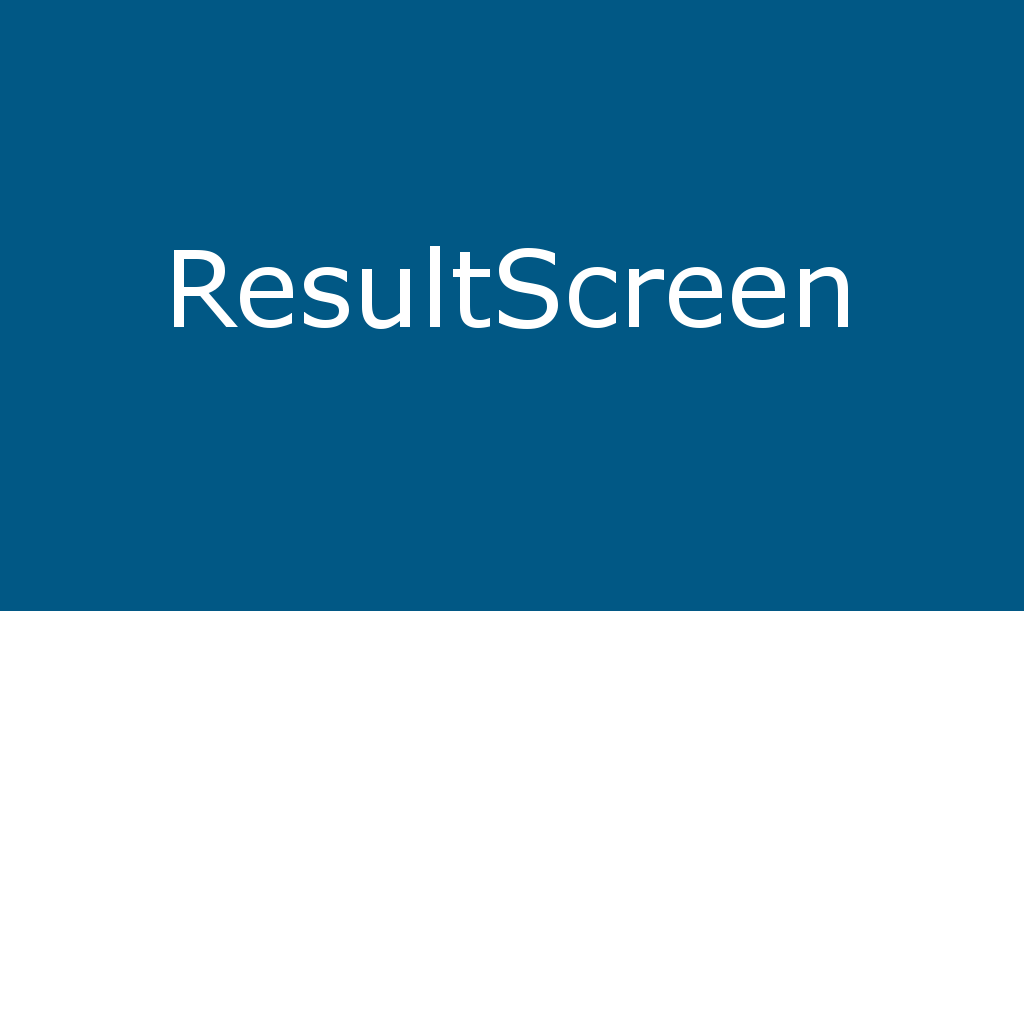
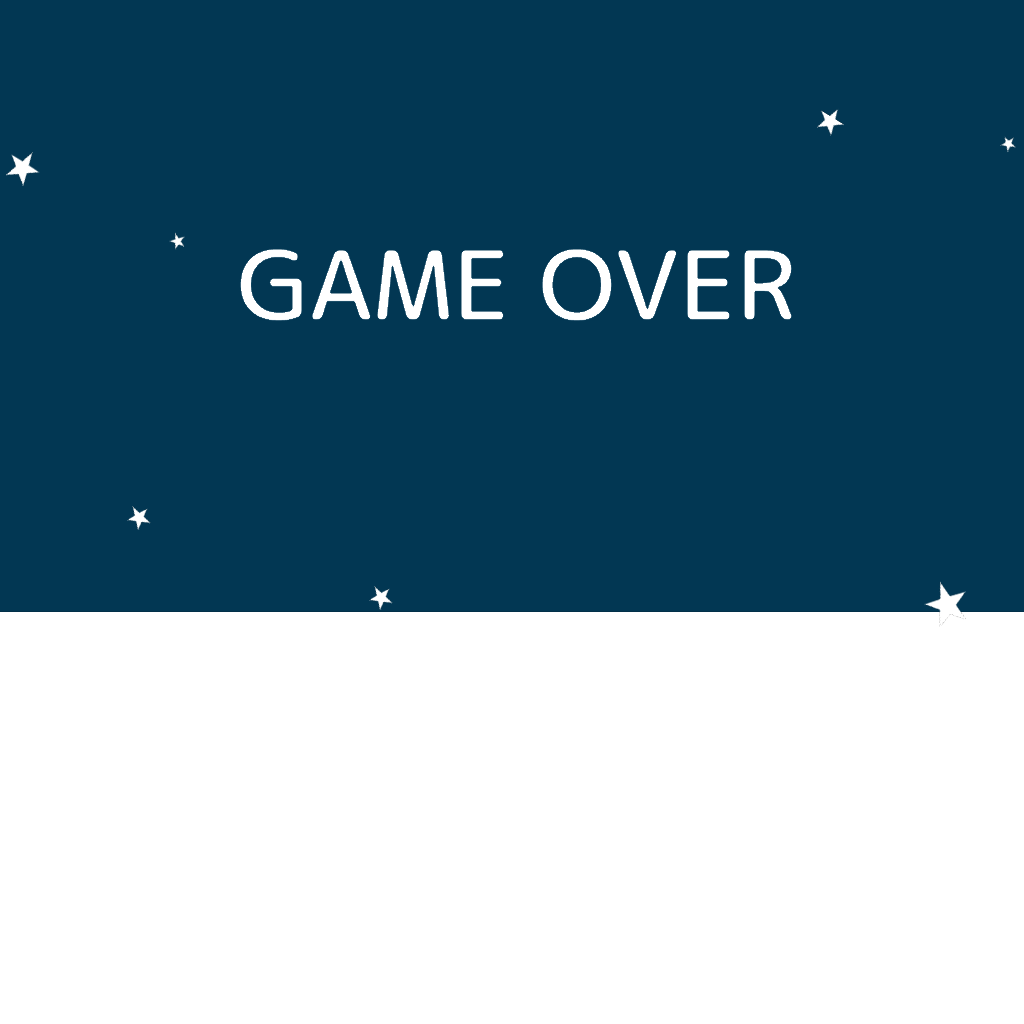
調整a

diff --git a/core/src/jp/toteto/a1293/game/rhythmgame/GameScreen.java b/core/src/jp/toteto/a1293/game/rhythmgame/GameScreen.java
@@ -106,7 +106,7 @@ public class GameScreen extends ScreenAdapter {
     Button3 mButton3;
     Button4 mButton4;
     Player mPlayer;
-   // Message mMessage;
+    Message mMessage;
 
 
     AttackLine mAttackLine;
@@ -525,8 +525,8 @@ public class GameScreen extends ScreenAdapter {
         mGaugeBarBack.draw(mGame.batch);
         mLGaugeBar.draw(mGame.batch);
         mFGaugeBar.draw(mGame.batch);
-
-
+        mMessage.draw(mGame.batch);
+        mGame.batch.end();
 
         // スコア表示
         mGuiCamera.update();
@@ -626,6 +626,10 @@ public class GameScreen extends ScreenAdapter {
 
         //Texture ufoTexture = new Texture("ufo.png");
 
+        Texture exitbutton = new Texture("ExitButton.png");
+        TextureRegion messageTexture = new TextureRegion(exitbutton,0, 430, 512, 32);
+        //TextureRegion message2Texture = new TextureRegion(exitbutton,320, 392, 143, 24);
+        //TextureRegion exitbuttonTexture = new TextureRegion(exitbutton,0, 0, 512, 310);
 
         Texture bar = new Texture("bar.png");
         TextureRegion barTexture = new TextureRegion(bar,0,845,1024,171);
@@ -852,6 +856,9 @@ public class GameScreen extends ScreenAdapter {
             mGround.add(ground);
             Gs += 8;
         }
+
+        mMessage = new Message(messageTexture);
+        mMessage.setPosition(16, 4.0f);//変える
     }
 
     // それぞれのオブジェクトの状態をアップデートする
@@ -866,7 +873,7 @@ public class GameScreen extends ScreenAdapter {
                 updatePlaying(delta);
                 break;
             case GAME_STATE_GAMEOVER:
-                updateGameOver();
+                updateGameOver(delta);
                 break;
         }
     }
@@ -1175,7 +1182,7 @@ public class GameScreen extends ScreenAdapter {
                         note2.get();//消す
                     }
                 }
-            //タイミング判定
+                //タイミング判定
             }
             if (note2.mState == 0 && mDeadLine.getBoundingRectangle().overlaps(note2.getBoundingRectangle())) {
                 //押されなかった場合（ダメージを追加予定
@@ -1303,32 +1310,23 @@ public class GameScreen extends ScreenAdapter {
     }
 
     //ゲームオーバー時ResultScreenに遷移
-    private void updateGameOver() {
+    private void updateGameOver(float delta) {
         playingmusic.dispose();//メモリ解放
         hitsound.dispose();//メモリ解放
         fall.dispose();//メモリ解放
         getstarsound.dispose();//メモリ解放
         jingle.dispose();//メモリ解放
-/*
-        mGame.batch.begin();
-       // mMessage.draw(mGame.batch);
-        mGame.batch.end();
-        Texture exitbutton = new Texture("Exitbutton.png");
-        TextureRegion messageTexture = new TextureRegion(exitbutton,0, 420, 512, 92);
-        TextureRegion message2Texture = new TextureRegion(exitbutton,320, 392, 143, 24);
-        TextureRegion exitbuttonTexture = new TextureRegion(exitbutton,0, 0, 512, 310);
-        //mMessage = new Message(messageTexture);
-        //mMessage.setPosition(16, 4.0f);
 
-        if (Gdx.input.justTouched()) {*/
-            mGame.setScreen(new ResultScreen(mGame, mScore));
+        mMessage.update(delta);
+
+        if (Gdx.input.justTouched()) {
+        mGame.setScreen(new ResultScreen(mGame, mScore));
         }
-   // }
+    }
     private void checkGameOver() {
         //ここの時間で終了
         //if (playingmusic.getPosition()>66) {
-        //if (LifeGauge < 0||playingmusic.getPosition()>66) {
-            if (playingmusic.getPosition()>66) {
+        if (LifeGauge < 0||playingmusic.getPosition()>6) {
             Gdx.app.log("RhythmGame", "GAMEOVER");
             //gomusic.play();//ゲームオーバー画面の音楽再生
             playingmusic.dispose();//メモリ解放

diff --git a/core/src/jp/toteto/a1293/game/rhythmgame/Ghost.java b/core/src/jp/toteto/a1293/game/rhythmgame/Ghost.java
@@ -70,11 +70,23 @@ public class Ghost extends GameObject {
     }
 
     public void updateRS(float deltaTime,float v) {
-        setScale(1.3f);
+        setSize(0.91f,1.2f);
         setX(getX() + velocity.x * deltaTime);
         float v2 = Math.abs( v );
+        if (velocity.x<0){
+            setRegion(0, 33, 24, 32);
+        }
+        if (velocity.x>0){
+            setRegion(0, 64, 24, 32);
+        }
+        if (velocity.x==0){
+            setRegion(0, 2, 24, 32);
+        }
         if (mState == 0) {
             velocity.x = v;
+            if (getX() > 17||getX() < -2) {
+                mState = 2;
+            }
         }
         if (mState == 2) {
             if (getX() < -2) {
@@ -82,12 +94,6 @@ public class Ghost extends GameObject {
             }
             if (getX() > 17) {
                 velocity.x = -v2;
-            }
-            if (velocity.x<0){
-                setRegion(0, 33, 24, 32);
-            }
-            if (velocity.x>0){
-                setRegion(0, 64, 24, 32);
             }
         }
     }

diff --git a/core/src/jp/toteto/a1293/game/rhythmgame/Message.java b/core/src/jp/toteto/a1293/game/rhythmgame/Message.java
@@ -1,8 +1,39 @@
 package jp.toteto.a1293.game.rhythmgame;
 
+import com.badlogic.gdx.graphics.g2d.TextureRegion;
+
 /**
  * Created by Fumio on 2017/10/31.
  */
 
-public class Message {
+public class Message extends GameObject {
+    // 横幅、高さ
+    public static final float GRASS_WIDTH = 16;
+    public static final float GRASS_HEIGHT = 1;
+
+    public static final int GRASS_EXIST = 0;
+    public static final int GRASS_NONE = 1;
+
+    //状態を保持するメンバ変数
+    int mState;
+
+    // 速度
+    public static final float GRASS_VELOCITY = - 32.0f;
+
+
+
+    public Message(TextureRegion texture) {
+        super(texture);
+        setSize(GRASS_WIDTH, GRASS_HEIGHT);
+        mState = GRASS_EXIST;
+        velocity.x = GRASS_VELOCITY;
+    }
+
+    // 座標を更新する
+    public void update(float deltaTime) {
+        setX(getX() + velocity.x * deltaTime);
+        if (getX()<= 0){
+            setPosition(0, 4.0f);
+        }
+    }
 }

diff --git a/core/src/jp/toteto/a1293/game/rhythmgame/ResultScreen.java b/core/src/jp/toteto/a1293/game/rhythmgame/ResultScreen.java
@@ -153,7 +153,7 @@ public class ResultScreen extends ScreenAdapter {
         while (end < 10) {
             Ghost ghost = new Ghost(ghostTexture);
             //場所を決める
-            ghost.setPosition(MathUtils.random(0, 8), MathUtils.random(0, 5));
+            ghost.setPosition(MathUtils.random(0, 16), MathUtils.random(1, 7.7f));
             GHOST_VELOCITY =MathUtils.random(-3, 3);
             mGhost.add(ghost);
             end++;
